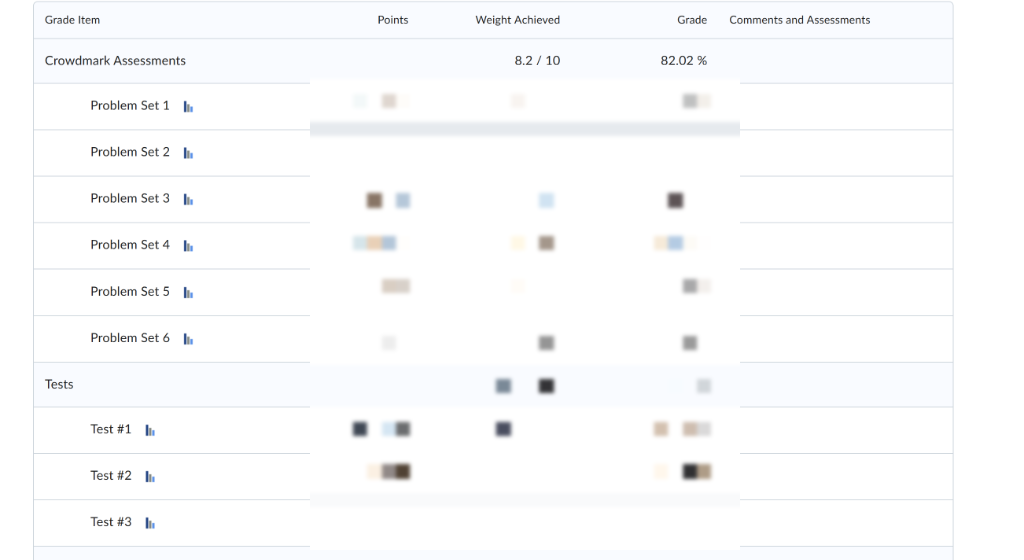
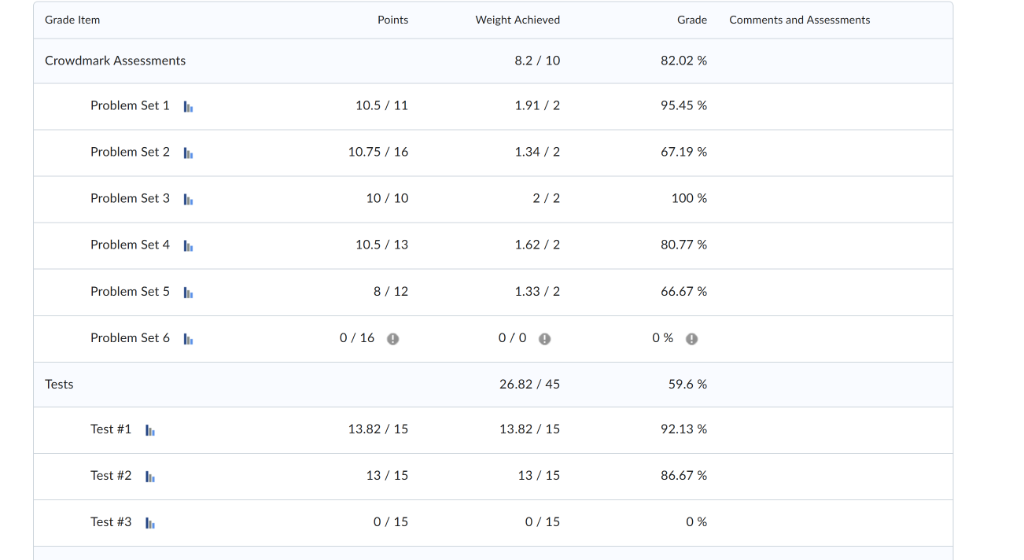
docs: restore crisp unmasked screenshots and redesign README with visual-first layout

diff --git a/README.md b/README.md
@@ -1,110 +1,105 @@
-# WatToDue 🦅
+<div align="center">
 
-> **Consolidated Deadlines Calendar and Gradebook Extension for University of Waterloo LEARN (D2L Brightspace).**
+  <img src="icons/icon-128.png" alt="WatToDue Logo" width="88" height="88">
 
-[![Live Showcase](https://img.shields.io/badge/Live_Site-GitHub_Pages-amber?style=flat&logo=github)](https://blakejjia.github.io/WatToDue/)
-[![Chrome MV3](https://img.shields.io/badge/Chrome_Extension-Manifest_V3-4285F4?logo=googlechrome&logoColor=white)](https://github.com/blakejjia/WatToDue)
[1 lines of base64/hex data omitted]
-[![Tests Passing](https://img.shields.io/badge/Unit_Tests-32%20Passing-10b981?logo=node.js&logoColor=white)](tests/)
-[![License: MIT](https://img.shields.io/badge/License-MIT-blue.svg)](LICENSE)
+  # WatToDue
 
-WatToDue brings all your assignment dropboxes, quizzes, and grade feedback into one clean, modern dashboard and quick toolbar popup right inside Google Chrome.
+  **The missing deadline & grade tracker for University of Waterloo LEARN.**
 
-🌐 **Visit the Live Showcase Website**: [https://blakejjia.github.io/WatToDue/](https://blakejjia.github.io/WatToDue/)
+  [![Live Showcase](https://img.shields.io/badge/Live_Site-GitHub_Pages-f59e0b?style=for-the-badge&logo=github)](https://blakejjia.github.io/WatToDue/)
+  [![Download ZIP](https://img.shields.io/badge/Download-Latest_Release-blue?style=for-the-badge&logo=googlechrome)](https://github.com/blakejjia/WatToDue/releases/latest)
+  [![Manifest V3](https://img.shields.io/badge/Manifest-V3-10b981?style=for-the-badge)](manifest.json)
+  [![Tests](https://img.shields.io/badge/Tests-32_Passed-success?style=for-the-badge)](tests/)
 
----
+  <br>
 
-## 📸 Screenshots Showcase
+  <p align="center">
+    <b>No more clicking through 5 different course shells just to find out what's due tonight.</b><br>
+    WatToDue pulls all your dropboxes, quizzes, and grade breakdowns into one unified schedule.
+  </p>
 
-### 1. Dashboard Agenda & Deadlines Timeline
-Date-grouped timeline with multi-card layout and automatic submission tracking:
-![Dashboard Agenda](docs/assets/screenshots/dashboard-agenda.png)
+  [**🌐 Live Demo**](https://blakejjia.github.io/WatToDue/) • [**📦 Download ZIP**](https://github.com/blakejjia/WatToDue/releases/latest) • [**⚡ Quick Install**](#-quick-install-30-seconds)
 
-### 2. Full Monthly Calendar Matrix
-Explore deadlines day-by-day with interactive flyouts and color-coded status badges:
-![Dashboard Calendar](docs/assets/screenshots/dashboard-calendar.png)
+</div>
 
-### 3. Waterloo LEARN Gradebook Tree & True Average
-Exact Waterloo LEARN category hierarchy with collapsible folders and zero-score placeholder masking:
-![Grades Breakdown](docs/assets/screenshots/grades-breakdown.png)
-
-### 4. 1-Click Quick Toolbar Popup
-Stay on top of upcoming and overdue tasks without ever leaving your active tab:
-<p align="center">
-  <img src="docs/assets/screenshots/popup-view.jpg" alt="Quick Toolbar Popup" width="380">
-</p>
-
-### 5. Smart Course & Component Manager
-Automatically recognizes Lectures (`LEC`), Laboratories (`LAB` e.g. `CHEM 220L`), Tutorials (`TUT`), and Tests (`TST`):
-![Settings Courses Inspector](docs/assets/screenshots/settings-courses.png)
+<br>
 
 ---
 
-## ✨ Key Features
+## ⚡ What it Solves
 
-- 📅 **Consolidated Dues Calendar & Agenda**:
-  - Automatically pulls deadlines across all your enrolled courses for the active term.
-  - Visual color-coding: **Blue** for Assignment Dropboxes, **Amber** for Quizzes.
-  - Relative timing badges: `🔴 Overdue`, `🟡 Due Today`, `🟢 Due Tomorrow`, `⚪ Upcoming`.
-  - Automatic completion matching: Submitted dropboxes and attempted quizzes are automatically detected and marked as done.
-  - One-click deep links: Jump directly to the specific submission folder or quiz in LEARN.
-
-- 📊 **Gradebook & Category Tree**:
-  - Matches the exact category tree hierarchy in Waterloo LEARN (`Problem Sets`, `Tests`, `Reflections`, `Quizzes`).
-  - **No False 0% Failing Marks**: Unreleased and future assessments with 0 points are masked as `—` (Ungraded) so your true average is accurately calculated.
-  - Deep links to view quiz attempts and instructor comments.
-
-- 🔬 **Intelligent Course & Component Classification**:
-  - Automatically detects Waterloo laboratory courses ending in `L` (e.g. `CHEM 220L`, `BIOL 240L`, `PHYS 121L`) with dedicated green `LAB` badges.
-  - Filters out or enables tutorials (`TUT`) and test slots (`TST`) on demand.
-
-- 🔒 **Privacy-First & 100% Client-Side**:
-  - Runs entirely locally inside your browser via Chrome Manifest V3.
-  - No external backend, no accounts, and no data tracking.
-  - Uses ambient session cookies with `https://learn.uwaterloo.ca` — your credentials never leave your machine.
+| Without WatToDue 😫 | With WatToDue 😎 |
+| :--- | :--- |
+| Clicking through each course shell individually | **One unified agenda** across all your enrolled courses |
+| Mystery `0 / 10` placeholders making your average look failing | **Real current average** computed only on marked work |
+| Wondering if you already submitted a quiz | **Auto-detects submitted dropboxes & completed attempts** |
+| Opening LEARN just to check a submission time | **1-click toolbar popup** with instant due countdowns |
+| Labs, lectures, and test slots lumped together | **Smart tags**: distinguishes `LEC`, `LAB` (e.g. `CHEM 220L`), and `TUT` |
 
 ---
 
-## 🚀 Installation Guide
+## 📸 In Action
 
-### Option 1: Install from Release ZIP (30 Seconds)
+### 1. Agenda View — All Deadlines, One Timeline
+Grouped chronologically with color-coded pills (`Dropbox` vs `Quiz`) and deep links straight to the submission box.
 
-1. Go to the [WatToDue Releases Page](https://github.com/blakejjia/WatToDue/releases/latest) and download `WatToDue-v1.0.0.zip`.
-2. Unzip the file into a folder on your computer.
-3. In Google Chrome, go to:
-   ```text
-   chrome://extensions
-   ```
-4. In the top-right corner, toggle **Developer mode** to **ON**.
-5. Click **Load unpacked** in the top-left toolbar and select the unzipped WatToDue folder.
-6. Pin **WatToDue** to your Chrome toolbar, log in to [Waterloo LEARN](https://learn.uwaterloo.ca), and click the icon to sync!
+![WatToDue Dashboard Agenda](docs/assets/screenshots/dashboard-agenda.png)
 
 ---
 
-### Option 2: Build from Source
+### 2. Full Month Calendar Matrix
+Click any day with deadlines to open side-by-side cards with exact due times and status.
+
+![WatToDue Calendar View](docs/assets/screenshots/dashboard-calendar.png)
+
+---
+
+### 3. Real Gradebook (Matching LEARN)
+Hierarchical categories with collapsible folders, exact weights, and links to quiz attempts. Unmarked future assignments never drag down your current grade.
+
+![WatToDue Grades Breakdown](docs/assets/screenshots/grades-breakdown.png)
+
+---
+
+### 4. 1-Click Toolbar Popup
+Check what's urgent right from your browser toolbar without loading full LEARN pages.
+
+<div align="center">
+  <img src="docs/assets/screenshots/popup-view.jpg" width="380" alt="WatToDue Toolbar Popup">
+</div>
+
+---
+
+## 🚀 Quick Install (30 Seconds)
+
+1. **Download**: Grab [`WatToDue-v1.0.0.zip`](https://github.com/blakejjia/WatToDue/releases/latest) and unzip it.
+2. **Open Chrome**: Navigate to `chrome://extensions` and toggle **Developer mode** (top right).
+3. **Load**: Click **Load unpacked** (top left) and select the unzipped folder.
+4. **Pin & Go**: Pin WatToDue to your toolbar, log into [Waterloo LEARN](https://learn.uwaterloo.ca), and click the icon!
+
+---
+
+## 🔒 Privacy & Safety
+
+- **100% Local**: Runs entirely in your browser.
+- **Zero External Requests**: Only talks to `https://learn.uwaterloo.ca`.
+- **No Password Stored**: Uses your existing ambient browser session cookie.
+- **No Tracking**: Zero analytics, zero telemetries, zero third-party scripts.
+
+---
+
+## 🛠 For Developers
 
 ```bash
-# 1. Clone the repository
-git clone https://github.com/blakejjia/WatToDue.git
-cd WatToDue
-
-# 2. Run unit tests
+# Run test suite (32 unit tests)
 npm test
 
-# 3. Package the extension for release
+# Build release package
 npm run pack
 ```
-This produces `dist/WatToDue-v1.0.0.zip` ready for loading into Chrome or publishing to the Chrome Web Store.
 
 ---
 
-## 🤖 Continuous Integration & Deployment
-
-- **One-Click Package & Release**: The `.github/workflows/package-extension.yml` workflow allows building and downloading the extension zip anytime from the GitHub Actions tab.
-- **GitHub Pages Showcase**: The `.github/workflows/deploy-pages.yml` workflow automatically publishes the static showcase site at `https://blakejjia.github.io/WatToDue/` on every push to `main`.
-
----
-
-## 📄 License
-
-MIT License. Built with 💛 for University of Waterloo students.
+<div align="center">
+  <sub>Built with 💛 by Waterloo students, for Waterloo students. MIT Licensed.</sub>
+</div>
